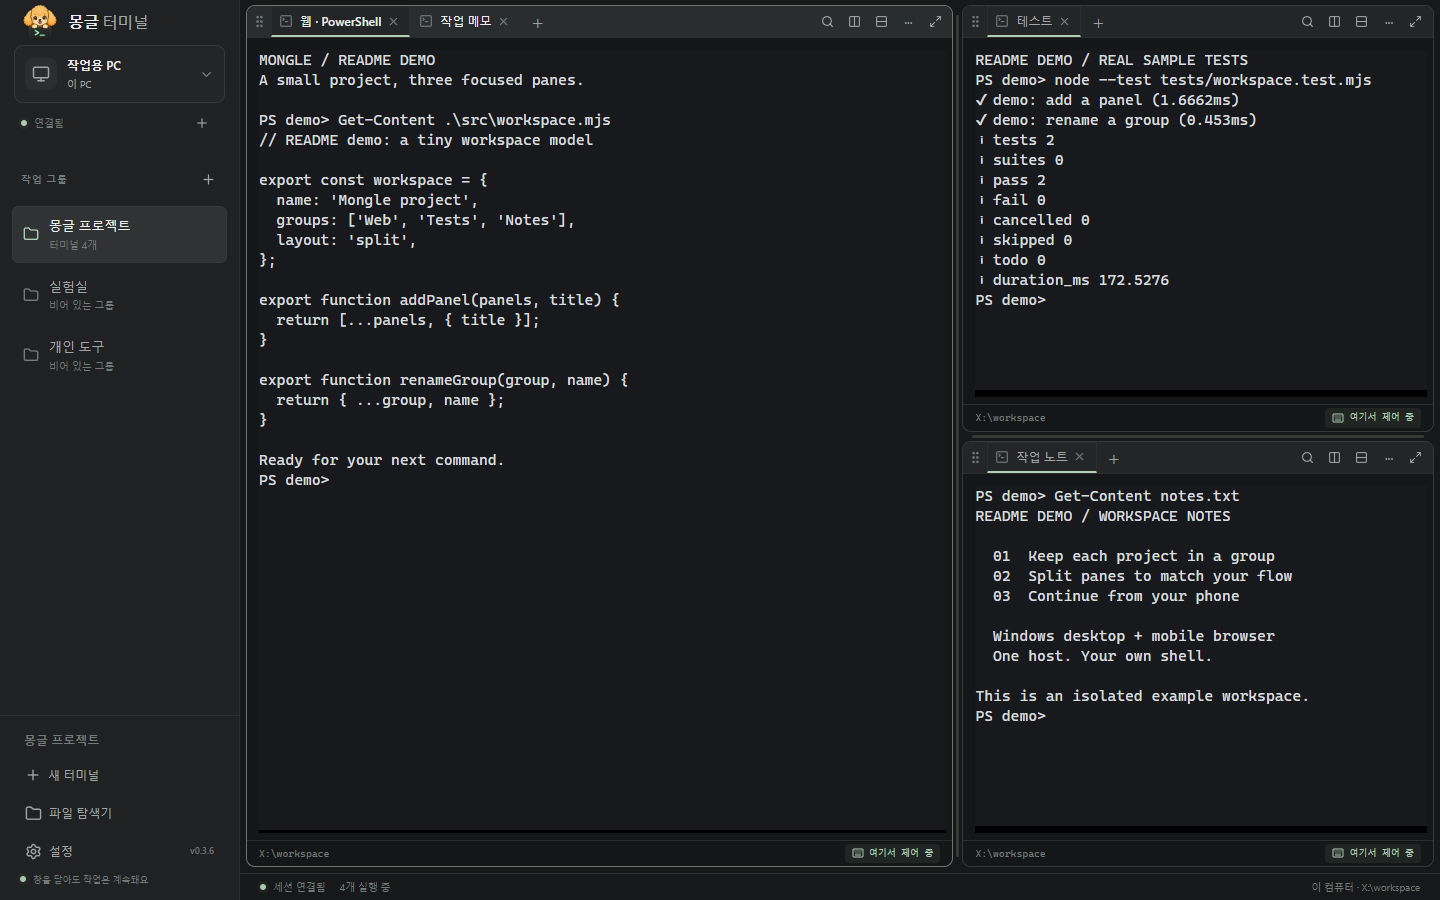
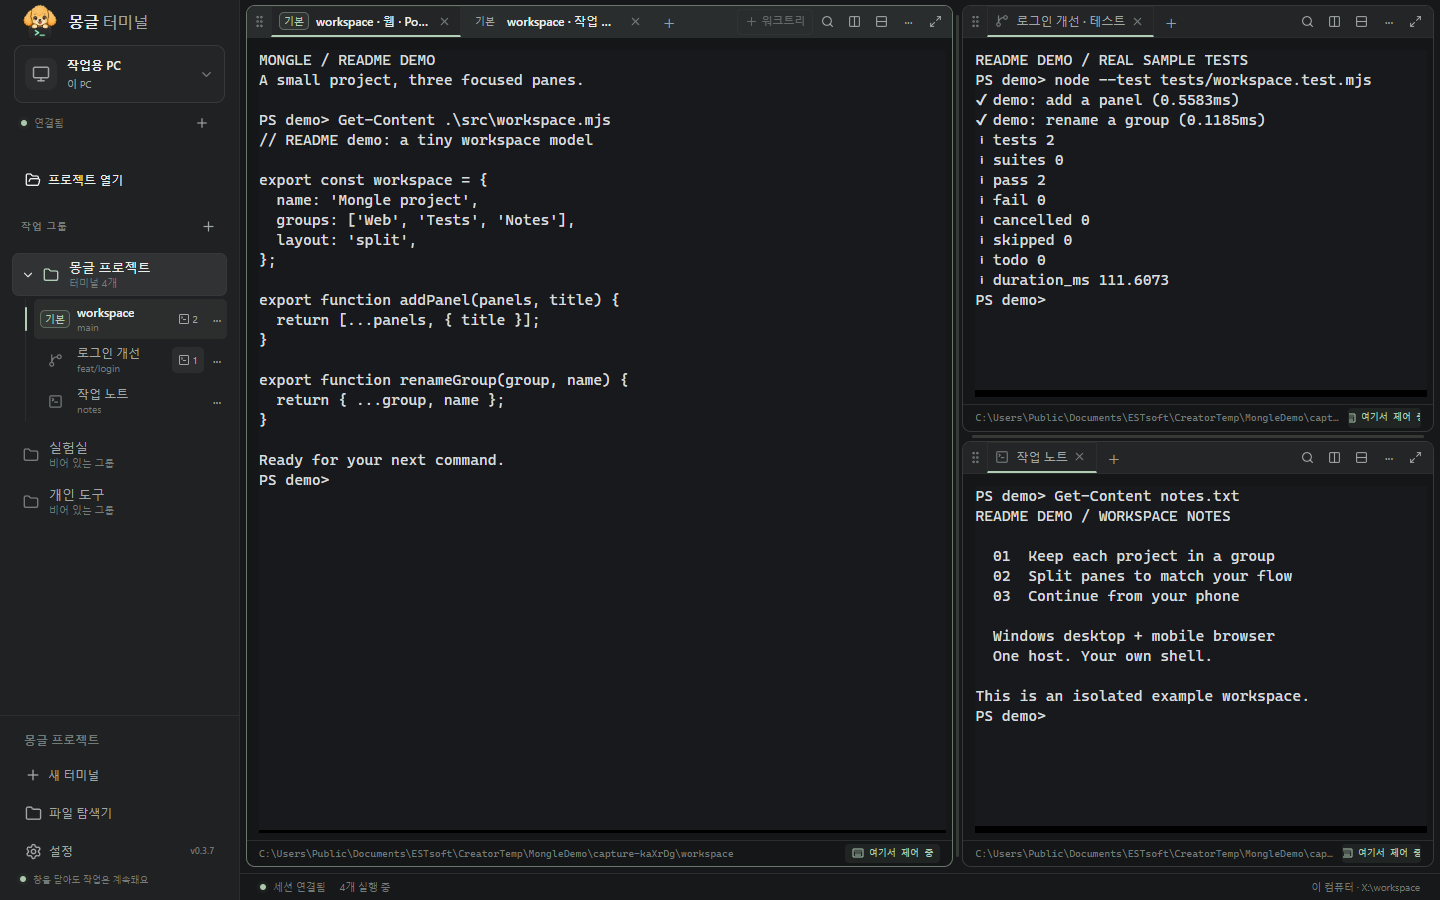
docs: refresh 0.3.7 download and worktree guide

diff --git a/README.md b/README.md
@@ -1,57 +1,138 @@
+<div align="center">
+
+<img src="docs/assets/icon-512.png" width="112" alt="터미널을 안고 있는 몽글 캐릭터" />
+
 # 몽글터미널
 
-여러 터미널을 그룹·분할·탭으로 정리하고, 휴대폰에서도 이어 쓰는 Windows 터미널입니다.
+### 작업은 그대로. 어디서든, 이어서.
 
-## 다운로드
+여러 폴더의 터미널을 한곳에 모으고,<br />워크트리로 나눠 작업하고, 휴대폰에서 이어 쓰세요.
 
-**[최신 버전 받기](https://github.com/bokjk/mongle-terminal-releases/releases/latest)** · Windows 11 x64 미리보기
+![Windows 11 x64 · Preview · Tailscale](docs/assets/status.svg)
 
-- 일반 설치: `MongleTerminal-Setup-<버전>-x64.exe`
-- 압축 실행: `MongleTerminal-<버전>-x64.zip` 전체를 풀고 `MongleTerminal.exe` 실행
-- 파일 확인: 같은 Release의 `SHA256SUMS.txt`
+**[Windows 다운로드](https://github.com/bokjk/mongle-terminal-releases/releases/latest)** · [빠른 시작](#시작은-터미널-하나부터) · [변경 이력](https://github.com/bokjk/mongle-terminal-releases/releases)
 
-코드 서명 없는 미리보기라 Windows SmartScreen 안내가 표시될 수 있습니다. 이 저장소에서 받은 파일인지 확인해 주세요. 현재 사용자용 설치이며 관리자 권한은 필요하지 않습니다.
+</div>
 
-## 0.3.6의 Git 변경 보기
+<br />
 
-파일 탐색기 위의 **파일 / Git**으로 현재 터미널 폴더의 변경을 확인합니다. 충돌·스테이징·작업 폴더 변경·새 파일을 나누고 브랜치와 변경 파일 개수를 표시합니다. 파일 트리에도 상태 색과 문자를 표시하며, 변경된 하위 파일이 있는 폴더에는 점을 붙입니다.
+![몽글터미널 — 작업 그룹, 기본 작업과 워크트리, 터미널 탭과 분할](docs/assets/desktop.png)
 
-수정 M은 황갈색, 추가 A·새 파일 ?는 초록색, 삭제 D·충돌 U는 빨간색, 이름 변경 R은 보라색입니다. 패널이 열려 있으면 5초 간격으로 갱신하며 펼친 폴더를 유지합니다. 선택한 PC에 Git이 설치되어 있어야 하고 파일 선택은 현재 내용의 읽기 전용 미리보기입니다.
+<p align="center"><sub>격리된 예제 프로젝트와 실제 Windows 셸로 촬영한 0.3.7 화면입니다.</sub></p>
+
+## 한 화면에서, 각자의 작업을
+
+<table><tr>
+<td width="33%"><strong>모아서 정리</strong><br /><br />서로 다른 폴더의 터미널을 작업 그룹 하나에. 이름을 붙이고 목록에서 바로 찾습니다.</td>
+<td width="33%"><strong>나눠서 집중</strong><br /><br />탭을 옮기고 화면을 분할하세요. 워크트리로 같은 저장소의 다른 작업도 함께 진행합니다.</td>
+<td width="33%"><strong>어디서든 계속</strong><br /><br />작업 PC에서 실행 중인 터미널에 다른 PC나 휴대폰으로 다시 연결합니다.</td>
+</tr></table>
+
+PowerShell·명령 프롬프트와 설치된 Git Bash·WSL을 사용합니다. Claude·Codex 같은 CLI도 평소처럼 실행하세요. 밝은 테마와 어두운 테마, 글자 크기 조절, 검색, 선택 후 자동 복사와 우클릭 붙여넣기를 지원합니다.
+
+## 시작은 터미널 하나부터
+
+1. **[Windows 11 x64 설치 파일](https://github.com/bokjk/mongle-terminal-releases/releases/latest)**을 받아 설치합니다. 현재 버전은 **0.3.7 미리보기**입니다.
+2. **새 터미널**을 누르고 셸과 시작 폴더를 고릅니다. Git 저장소가 아니어도 사용할 수 있습니다.
+3. 탭 옆 **+**로 터미널을 더하고, 탭 제목을 가장자리로 끌어 화면을 나눕니다.
+4. 다른 기기에서 이어 쓰려면 **설정 → 원격 연결**에서 연결을 준비합니다.
 
 <details>
-<summary><strong>파일 / Git 실제 화면</strong></summary>
-<p><img src="docs/assets/git-switch.png" width="360" alt="파일과 Git 전환" /></p>
-<table><tr><td><img src="docs/assets/git-files.png" width="240" alt="변경 파일의 상태 표시" /></td><td><img src="docs/assets/git-changes.png" width="240" alt="Git 변경 목록" /></td></tr></table>
-격리된 예시 저장소를 실제 0.3.6 패키지에서 촬영했습니다. 같은 파일이 여러 그룹에 있어도 전체 개수에는 한 번만 셉니다.
+<summary>설치 파일과 ZIP, 업데이트 안내</summary>
+
+- **설치 파일:** `MongleTerminal-Setup-0.3.7-x64.exe`. 현재 사용자용으로 설치하며 관리자 권한이 필요하지 않습니다. 설치본은 새 버전을 확인·다운로드한 뒤 사용자 확인을 받아 설치합니다.
+- **ZIP:** `MongleTerminal-0.3.7-x64.zip`. 폴더 전체를 풀고 `MongleTerminal.exe`를 실행합니다. 업데이트는 수동으로 교체합니다.
+- Node.js는 배포본에 포함됩니다. 사용할 셸과 Git은 PC에 설치되어 있어야 합니다.
+- 현재 코드 서명이 없는 미리보기입니다. Windows의 보호 안내가 나타나면 다운로드 출처를 확인하세요.
+- **0.3.0 이하**는 새 공개 업데이트 주소로 전환하려면 0.3.1 이상 설치 파일을 한 번 직접 설치해야 합니다. 수동 교체 전에는 작업을 저장하고 앱 메뉴의 **완전 종료…**를 사용합니다.
+
+
+
 </details>
 
-## 탭과 분할
+## 워크트리, 필요한 터미널에서 바로
 
-왼쪽 아래 생성 버튼 이름을 **새 분할 → 새 터미널**로 정리했습니다. 클릭으로 셸·시작 폴더를 선택하고 드래그로 분할하는 동작은 유지합니다.
+**작업 그룹은 터미널을 모으는 공간입니다.** 한 그룹 안에 프런트엔드 저장소, 백엔드 저장소, 일반 폴더를 함께 둘 수 있습니다. 워크트리는 만들기를 누른 **터미널의 현재 Git 저장소**를 기준으로 합니다.
 
-![영역별 터미널 탭과 왼쪽 아래 도구](docs/assets/desktop.png)
+1. 터미널 상단의 **+ 워크트리**를 누릅니다. 좁은 영역에서는 **···** 메뉴에 있습니다.
+2. 작업 이름과 기준 브랜치를 입력하고 **생성 후 터미널 열기**를 선택합니다. 폴더와 브랜치 이름은 고급 설정에서 바꿀 수 있습니다.
+3. 나중에 왼쪽 목록의 이름을 누르면 연결된 터미널로 이동합니다. 열려 있는 터미널이 없으면 그때 하나를 만듭니다.
 
-격리된 예시 프로젝트를 실제 앱의 웹 화면으로 촬영했습니다. 화면의 예시 테스트 결과는 몽글터미널 전체 회귀 결과와 구분합니다.
+| 목록에서 보이는 것 | 의미 |
+|---|---|
+| **기본** 배지 + 프로젝트 이름 | 저장소의 기본 작업 폴더 |
+| 가지 아이콘 + 작업 이름 | 추가 워크트리 |
+| 터미널 아이콘 + 터미널 이름 | Git 작업에 연결하지 않은 일반 터미널 |
+| 터미널 개수 | 같은 워크트리에 연결된 터미널 선택 |
 
-- 각 분할 영역 안에서 터미널을 탭으로 전환합니다. 마지막 탭 바로 뒤 **+** 또는 `Ctrl+Shift+T`로 새 탭을 열고 `Ctrl+Tab` / `Ctrl+Shift+Tab`으로 이동합니다.
-- **탭 제목**을 자기 영역 가장자리로 끌면 탭 하나를 새 분할로 떼어냅니다. 원래 영역에 탭이 두 개 이상 있어야 합니다. 다른 영역의 가장자리는 분할, 가운데는 그 영역의 탭으로 합치기입니다.
-- **왼쪽 점 손잡이**는 모든 탭을 포함한 영역 전체를 옮깁니다. 다른 영역 가운데에서는 두 영역을 교환하며 Esc로 취소합니다.
-- PC의 **새 터미널·파일 탐색기·설정**은 왼쪽 아래에 있습니다. 별도 상단 도구줄을 없애 작업 공간을 넓혔습니다.
+목록은 이름과 보조 정보 두 줄로 정리했습니다. **··· → 이름 변경**으로 알아보기 쉽게 바꾸고, 긴 경로와 브랜치는 마우스를 올려 확인합니다. **프로젝트 열기**로 Git 폴더를 먼저 등록할 수도 있습니다.
 
-탭 전환·재배치는 실행 중인 셸을 유지합니다. 탭의 X는 확인 후 해당 작업을 종료하고 닫습니다.
+터미널을 닫아도 워크트리 폴더는 남습니다. 삭제는 앱에서 만든 워크트리에만 제공하며, 연결된 터미널이나 남은 변경·새 파일·ignored 파일이 있으면 중단합니다. 삭제해도 브랜치와 커밋은 유지합니다.
 
-## 기존 사용자 업데이트
 
-**0.3.0 이하 사용자는 0.3.1 이상 설치 파일을 한 번 직접 설치해야 합니다.** 작업을 저장하고 앱 메뉴의 **완전 종료…**를 선택한 뒤 설치하세요. 창 닫기만으로는 실행부가 종료되지 않습니다. 사용자 데이터는 업데이트 과정에서 자동 삭제하지 않습니다.
 
-0.3.1부터 NSIS 설치본은 이 저장소의 새 안정 버전을 자동 확인·다운로드합니다. **설정 → 앱 업데이트**에서 직접 확인할 수도 있습니다. 다운로드가 끝나면 사용자가 **설치 후 다시 시작**을 확인하고 현재 PC의 작업을 정상 종료한 뒤 적용합니다. ZIP은 수동 교체 대상입니다. 실제 구버전 NSIS 설치본의 자동 교체·재실행·복원은 추가 검증 대상입니다.
+## 탭을 옮겨도, 실행 중인 작업은 그대로
 
-## 처음 사용하기
+각 분할 영역에 독립된 탭과 **+**가 있습니다. 탭을 분리했다가 다른 탭 옆으로 다시 가져오거나 순서만 바꿀 수 있습니다.
 
-1. **새 터미널**에서 셸과 작업 폴더를 선택합니다. 영역의 **+**로 탭을 추가하고 분할 버튼이나 왼쪽 아래 **새 터미널**로 화면을 나눕니다.
-2. 탭 제목을 가장자리로 끌어 분리하거나 점 손잡이로 영역 전체를 옮깁니다. 터미널 내용을 눌러 입력합니다.
-3. 원격 접속은 작업 PC에서 Tailscale을 준비하고 **설정 → 원격 연결**을 켠 뒤 QR코드·주소로 접속한 기기를 승인합니다. 작업 PC가 켜져 있어야 합니다.
+| 하고 싶은 일 | 조작 |
+|---|---|
+| 새 탭 열기 | **+** — 바로 왼쪽 마지막 탭의 현재 폴더를 기본값으로 사용 |
+| 선택한 터미널 옆에 새 탭 | `Ctrl+Shift+T` — 현재 선택한 터미널의 폴더 기준 |
+| 탭 분리 | 탭이 둘 이상인 영역에서 탭 제목을 가장자리로 끌기 |
+| 탭 합치기·순서 변경 | 탭 제목줄의 삽입선 위치에 놓기; **+** 위는 맨 뒤 |
+| 영역 전체 이동 | 왼쪽 점 손잡이로 끌기 |
 
-자세한 사용자 안내와 제3자 소프트웨어 고지는 배포본의 `resources/hostbundle/docs`에 포함되어 있습니다.
+현재 폴더를 보고하지 않는 셸은 시작 폴더를 사용합니다. `Ctrl+Tab` / `Ctrl+Shift+Tab`으로 현재 영역의 탭을 전환합니다. Windows Codex CLI의 **Shift+Enter** 줄바꿈과 한글 조합 직후 연속 입력도 개선했습니다. 실제 키 동작은 실행 중인 프로그램의 설정을 따릅니다.
 
-이 저장소에는 배포 파일과 안내만 게시합니다. 몽글터미널 소스 저장소는 비공개이며 프로젝트 자체의 오픈소스 라이선스는 아직 정하지 않았습니다. 제3자 구성요소의 라이선스는 배포본에 동봉합니다.
+
+
+## 파일과 Git 변경을 바로 옆에
+
+**파일 탐색기**는 마지막으로 선택한 터미널의 현재 폴더를 따라갑니다. **파일 / Git**을 전환하면 폴더 트리와 변경 목록을 확인할 수 있습니다. 원격 터미널에서는 해당 PC의 파일을 보여 줍니다.
+
+<table><tr>
+<td align="center"><img src="docs/assets/git-files.png" width="260" alt="파일 트리의 Git 상태 색·문자와 폴더 변경 표시" /><br /><sub>파일 트리와 변경 상태</sub></td>
+<td align="center"><img src="docs/assets/git-changes.png" width="260" alt="스테이징됨·작업 폴더 변경·새 파일을 구분한 Git 목록" /><br /><sub>상태별 Git 변경 목록</sub></td>
+</tr></table>
+
+텍스트 미리보기와 경로 복사를 지원합니다. 읽기 전용이며 커밋·스테이징·파일 편집은 터미널에서 진행합니다. 위 Git 화면은 0.3.6에서 촬영했습니다.
+
+
+
+## 휴대폰에서도 같은 터미널
+
+<table><tr>
+<td width="38%" align="center"><img src="docs/assets/mobile.png" width="270" alt="휴대폰 크기에서 실행한 몽글터미널과 터미널 보조 키" /></td>
+<td>
+<h3>QR로 연결하고, 브라우저에서 이어 쓰세요.</h3>
+<p>작업 PC와 휴대폰에서 Tailscale을 켠 다음 원격 연결 설정의 QR코드를 스캔합니다. 첫 연결은 코드 입력과 작업 PC의 승인을 거칩니다.</p>
+<p>터미널 전환, Esc·Tab·Ctrl·방향키, 글자 크기 조절과 이전 출력 스크롤을 지원합니다. 입력할 터미널을 누르면 그 기기로 제어권이 넘어옵니다.</p>
+<p>작업 PC와 실행부가 켜져 있어야 합니다. 한 번에 한 기기가 입력을 제어하며, 단순 스크롤이나 창 활성화만으로 다른 기기의 입력을 가져오지 않습니다.</p>
+<p><a href="#휴대폰에서도-같은-터미널">원격 연결 안내 →</a></p>
+</td>
+</tr></table>
+
+<p align="center"><sub>이미지는 모바일 크기의 브라우저 데모입니다. 실물 휴대폰 캡처는 아닙니다.</sub></p>
+
+## 창 닫기와 작업 종료
+
+| 동작 | 실행 중인 셸 | 다시 열면 |
+|---|---|---|
+| 창의 **X** | 계속 실행 | 트레이·바로가기로 복귀 |
+| **앱 종료 · 터미널 유지** | 계속 실행 | 같은 호스트와 셸에 재연결 |
+| **완전 종료…** 또는 PC 재시작 | 종료 | 저장한 그룹·배치·폴더·허용된 출력 기록과 **새 셸** 복원 |
+
+완전 종료나 재부팅 뒤에는 이전 명령, CLI 대화, 개발 서버를 자동으로 다시 실행하지 않습니다. 사용자 데이터는 기본적으로 `%LOCALAPPDATA%\MongleTerminal`에 보관하며 업데이트·제거 시 자동 삭제하지 않습니다.
+
+## 업데이트와 확인 범위
+
+설치본은 새 버전을 확인·다운로드하고 사용자가 **설치 후 다시 시작**을 확인하면 현재 PC의 작업을 저장·정상 종료한 뒤 설치합니다. ZIP은 수동 교체 대상입니다. 다운로드만으로 설치되지는 않습니다.
+
+0.3.7은 격리 환경의 실제 패키지와 Windows 셸로 검증했습니다. 실사용 NSIS 설치본의 자동 교체·OS 재부팅·모든 WSL 및 모바일 브라우저 조합은 추가 검증 대상입니다. 기본 회귀 통과와 실제 기기 검증은 구분합니다.
+
+자세한 사용자 안내와 제3자 소프트웨어 고지는 배포본의 `resources/hostbundle/docs`에 포함되어 있습니다. 파일 무결성은 각 Release의 `SHA256SUMS.txt`에서 확인할 수 있습니다.
+
+---
+
+이 저장소에는 배포 파일과 사용자 안내만 게시합니다. 소스 저장소는 비공개이며 프로젝트 자체의 오픈소스 라이선스는 아직 정하지 않았습니다. 제3자 구성요소의 라이선스는 배포본에 동봉합니다.
